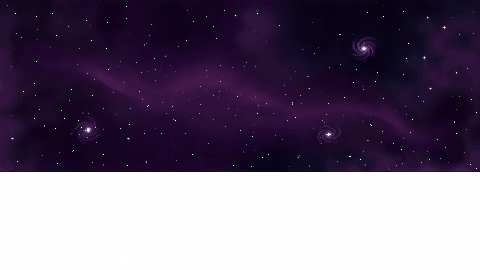
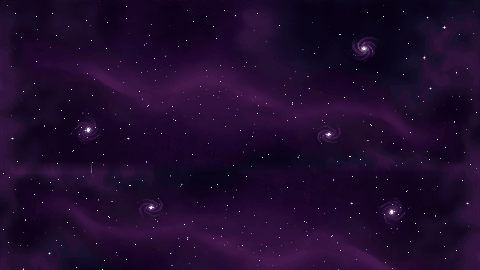
fix: keine weißen Felder, wenn die Mauer zerfällt (v0.63.3) (#73)
The iso side walls reach below the floor line (y 172 → 240), but the painted
void ended there: PixelLab had filled the transparent rest white. Fill the
lower zone with a rotated, cross-faded band of the void, and paint the
procedural starfield full height so a rerun of npm run scenery has nothing
empty to fill.

Claude-Session: https://claude.ai/code/session_01RK5HrQgbeXFdiyKpWMCC8c

diff --git a/src/render/stage.ts b/src/render/stage.ts
@@ -82,23 +82,26 @@ export function openBricks(ctx: CanvasRenderingContext2D, starfield: HTMLCanvasE
   for (const [x, y0, y1] of br.cols) if (y1 > y0) ctx.drawImage(starfield, x, y0, 1, y1 - y0, x, y0, 1, y1 - y0);
 }
 
-/** The void behind the wall: deep violet with a faint nebula band. */
+/**
+ * The void behind the wall: deep violet with a faint nebula band. It fills the whole picture – the side walls of the
+ * iso room reach below the floor line, and whatever is left transparent here comes back white from PixelLab.
+ */
 export function paintStarfield(): HTMLCanvasElement {
   const c = newCanvas();
   const ctx = c.getContext("2d");
   if (ctx === null) return c;
   ctx.fillStyle = "#05030b";
-  ctx.fillRect(0, 0, WIDTH, FLOOR_Y);
+  ctx.fillRect(0, 0, WIDTH, HEIGHT);
   const neb = ctx.createLinearGradient(0, 20, WIDTH, 140);
   neb.addColorStop(0, "rgba(60,20,90,0)");
   neb.addColorStop(0.45, "rgba(80,30,120,0.35)");
   neb.addColorStop(0.6, "rgba(30,60,120,0.3)");
   neb.addColorStop(1, "rgba(20,10,40,0)");
   ctx.fillStyle = neb;
-  ctx.fillRect(0, 0, WIDTH, FLOOR_Y);
+  ctx.fillRect(0, 0, WIDTH, HEIGHT);
   // dither the nebula into pixel noise
   const r = rng(5);
-  for (let y = 0; y < FLOOR_Y; y++) {
+  for (let y = 0; y < HEIGHT; y++) {
     for (let x = 0; x < WIDTH; x++) {
       if (r() < 0.25) {
         ctx.fillStyle = "rgba(5,3,11,0.6)";

diff --git a/src/render/scenery.ts b/src/render/scenery.ts
@@ -10,7 +10,7 @@ import iso from "./scenery/iso.png";
 import cosmos from "./scenery/void.png";
 
 export const SCENERY = { iso, flat } as const;
-/** The void behind the wall (only the wall area – the floor stays transparent). */
+/** The void behind the wall, the whole picture (the iso side walls reach below the floor line). */
 export const VOID = cosmos;
 
 export function loadImage(url: string): Promise<HTMLImageElement | undefined> {

diff --git a/docs/eigene-ideen.md b/docs/eigene-ideen.md
@@ -527,3 +527,9 @@ Aufgeräumt dabei: Die Kulisse ist jetzt auf `stage.ts` (Typen, gemeinsame Helfe
 |---|---|---|
 | **Aufwecken** | Mobile Browser legen den Audio-Kontext still, wenn eine andere App nach vorn kommt (iOS: „interrupted“), und wecken ihn nie selbst. Jetzt weckt die Seite ihn beim Zurückkehren (sichtbar, `pageshow`, Fokus) und bei jeder Berührung oder Taste. | `Sound.wake` |
 | **Im Takt weiter** | Ein gedrosselter Hintergrund-Tab lässt den Taktgeber stocken; danach lagen alle Noten in der Vergangenheit. Jetzt springt er ganze Sechzehntel nach vorn – Raster und Taktposition stimmen, nichts wird nachgeholt. Im Hintergrund plant er 1,5 s voraus, damit gedrosselte Timer nicht reißen. | `catchUp`, `LOOKAHEAD_HIDDEN` |
+
+## Kein Weiß hinter der Mauer (Fehlerbericht: „weiße Felder, wenn die Mauer zerfällt“)
+
+| Idee | Was es tut | Wo |
+|---|---|---|
+| **Das All reicht bis unten** | Die Seitenwände des Iso-Raums reichen unter die Bodenlinie, das gemalte All endete aber dort – PixelLab hatte den leeren Rest weiß gefüllt. Fielen unten Steine heraus, schien Weiß durch. Jetzt füllt das All das ganze Bild (unten ein gedrehter, weich angesetzter Ausschnitt), und auch das gezeichnete All reicht bis unten, sodass ein neuer Malauftrag nichts Leeres mehr bekommt. | `scenery/void.png`, `paintStarfield` |
